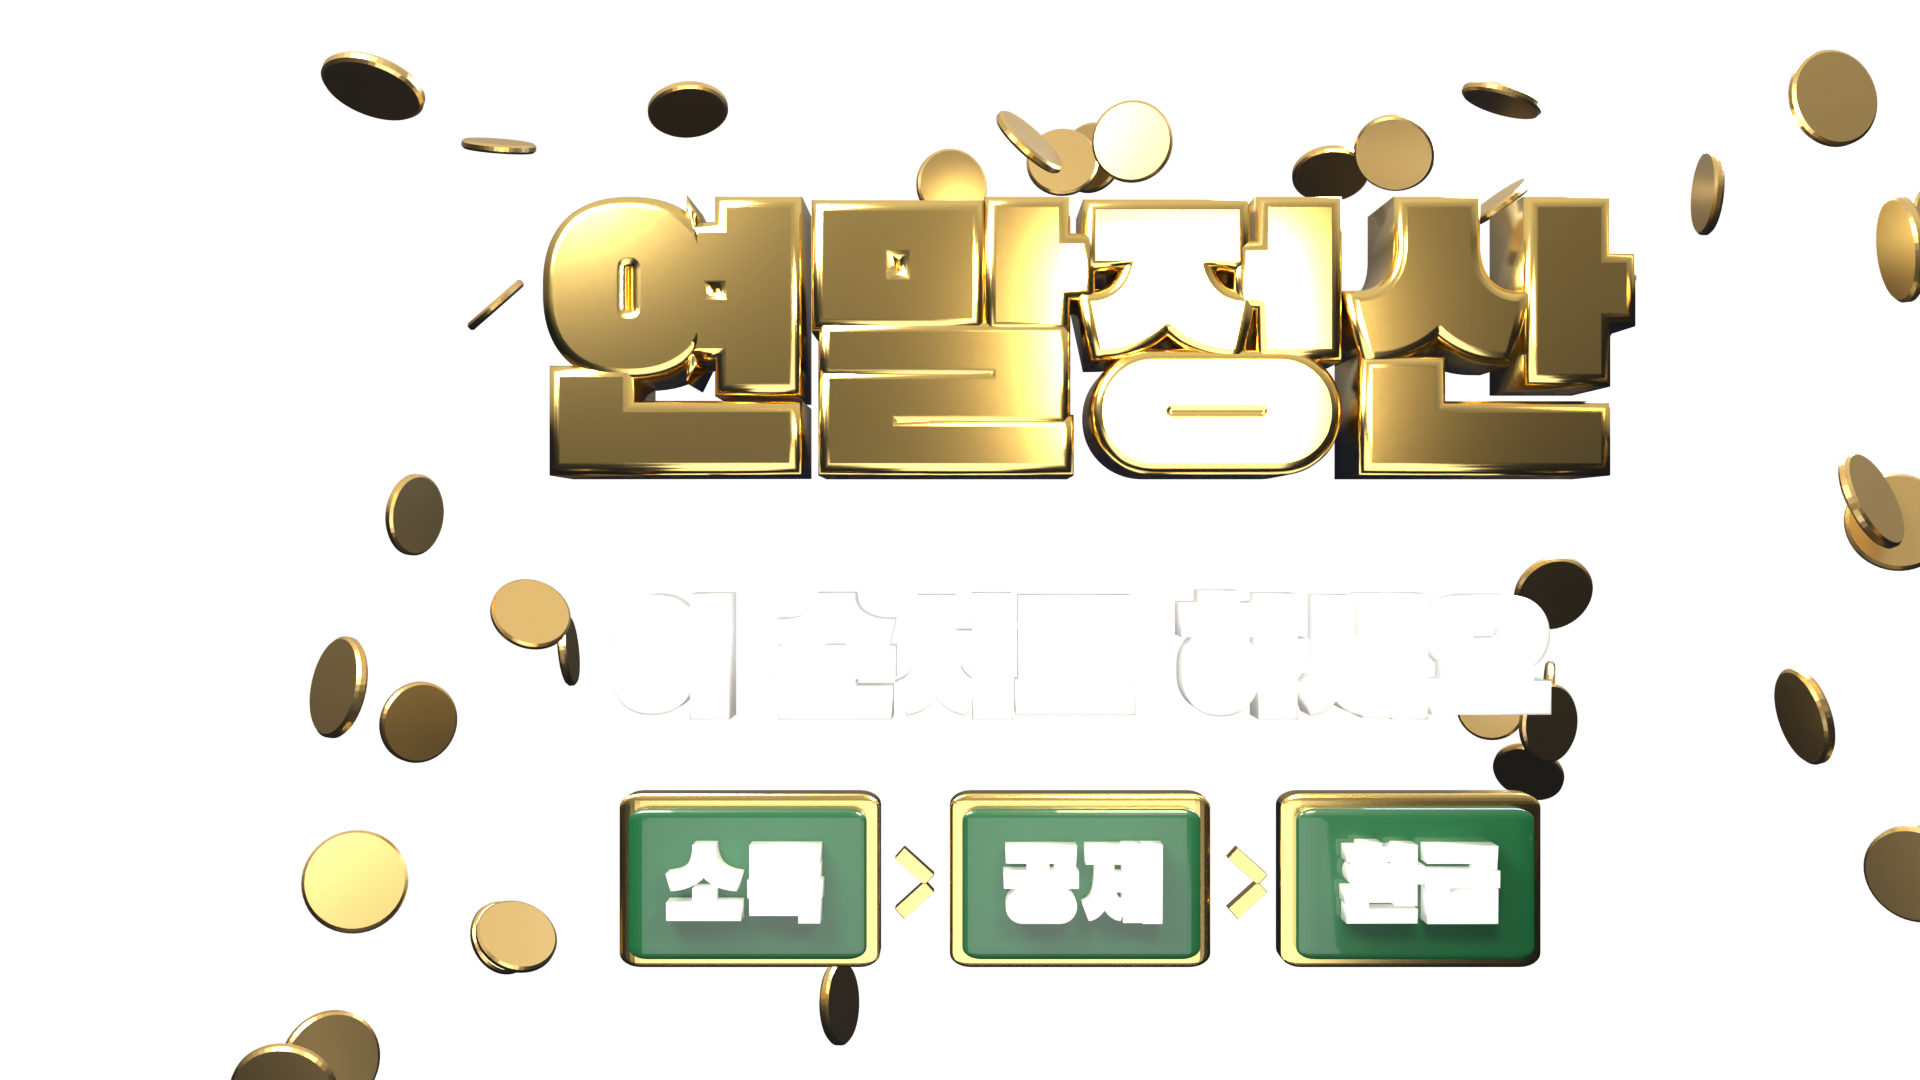
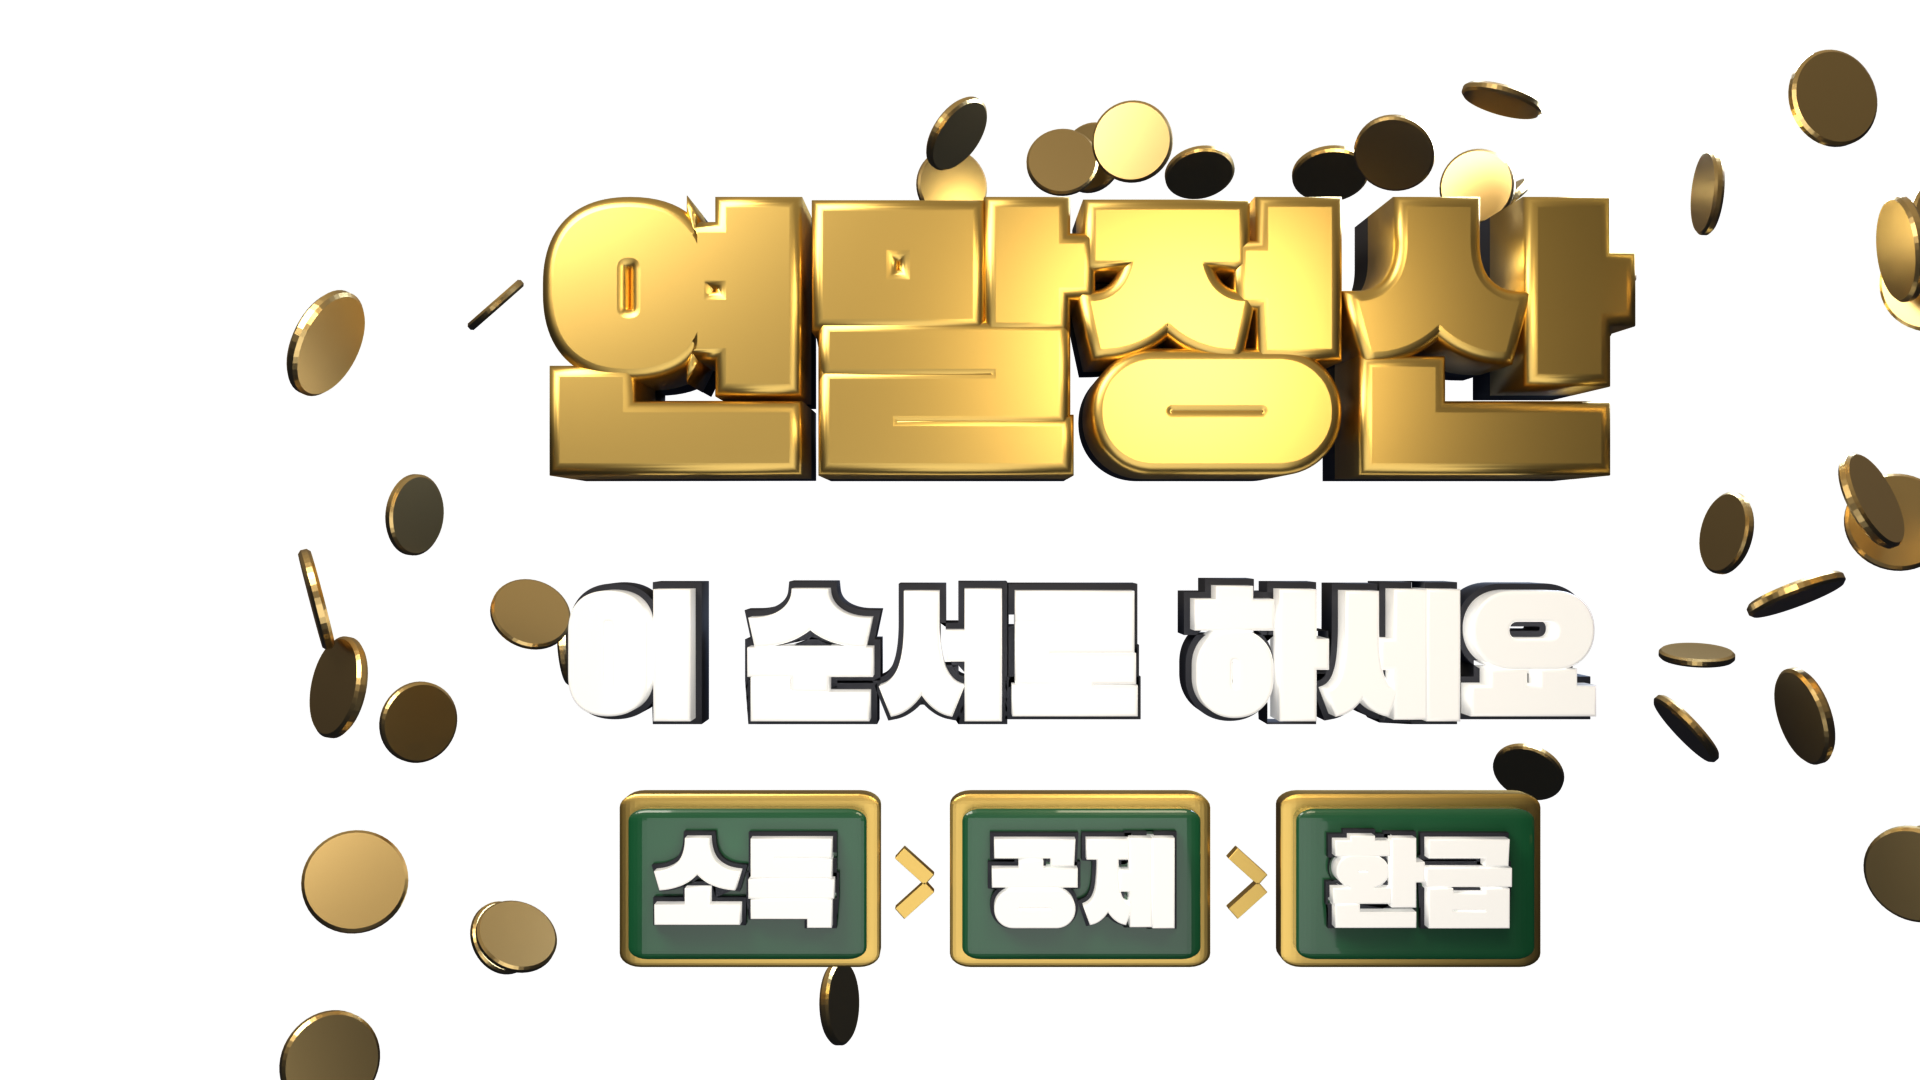
34편 썸네일 G 선명도 개선: 3D 글자 외곽선·금 반사 줄임·샤프닝
Claude-Session: https://claude.ai/code/session_01FimgvnFwUXoVfoVUHJw6eG

diff --git a/video-studio/projects/20261111-yearend-tax/thumb3d_blender.py b/video-studio/projects/20261111-yearend-tax/thumb3d_blender.py
@@ -63,6 +63,20 @@ def text(body, size, x_px, y_px, depth, m, fnt, y=0.0, bevel=0.18):
     return t
 
 
+def outline(t, width, m, dy=0.06):
+    """글자 뒤에 같은 글자를 width 만큼 두껍게(어두운 재질) 깔아 외곽선을 만든다 — 작은 화면에서도 글자가 또렷하게"""
+    o = t.copy()
+    o.data = t.data.copy()
+    o.data.offset = width
+    o.data.bevel_depth = 0
+    o.data.extrude = t.data.extrude
+    o.location.y += t.data.extrude + dy
+    o.data.materials.clear()
+    o.data.materials.append(m)
+    bpy.context.collection.objects.link(o)
+    return o
+
+
 def tile(label, x_px, y_px, fnt, body_m, rim_m, txt_m, w=1.55, h=0.98):
     x, z = px(x_px, y_px)
     # 금테(뒤, 조금 크게) + 초록 몸통 + 흰 글자
@@ -73,7 +87,8 @@ def tile(label, x_px, y_px, fnt, body_m, rim_m, txt_m, w=1.55, h=0.98):
         bev = c.modifiers.new("b", "BEVEL")
         bev.width, bev.segments = 0.16, 6
         c.data.materials.append(m)
-    t = text(label, 0.64, x_px, y_px + 4, 0.10, txt_m, fnt, y=-0.24, bevel=0.12)
+    t = text(label, 0.74, x_px, y_px + 4, 0.10, txt_m, fnt, y=-0.24, bevel=0.10)
+    outline(t, 0.035, OUT, 0.02)
     return t
 
 
@@ -97,18 +112,20 @@ def main():
     sc.render.resolution_x, sc.render.resolution_y = w, h
     fnt = next(bpy.data.fonts.load(os.path.abspath(f)) for f in FONTS if os.path.exists(f))
 
-    gold = mat("gold", (1.0, 0.72, 0.25), 1.0, 0.18)
+    global OUT
+    OUT = mat("outline", (0.012, 0.014, 0.025), 0.0, 0.6)
+    gold = mat("gold", (0.98, 0.66, 0.18), 1.0, 0.34)
     coin = mat("coin", (1.0, 0.70, 0.28), 1.0, 0.28)
     white = mat("white", (0.97, 0.96, 0.93), 0.0, 0.32, coat=0.6)
     wb = white.node_tree.nodes["Principled BSDF"]
     wb.inputs["Emission Color"].default_value = (1, 0.98, 0.94, 1)
-    wb.inputs["Emission Strength"].default_value = 0.35
+    wb.inputs["Emission Strength"].default_value = 0.45
     green = mat("green", (0.012, 0.13, 0.045), 0.0, 0.3, coat=1.0)
 
     # 1) 연말정산 — 큰 금빛 3D (기존 A안의 초록 배너 자리)
-    text("연말정산", 2.15, 1075, 372, 0.42, gold, fnt)
+    outline(text("연말정산", 2.15, 1075, 372, 0.42, gold, fnt), 0.075, OUT)
     # 2) 이 순서로 하세요 — 흰 3D, 금 대신 흰색으로 무게 차이
-    text("이 순서로 하세요", 0.98, 1080, 668, 0.20, white, fnt)
+    outline(text("이 순서로 하세요", 1.08, 1080, 668, 0.20, white, fnt, bevel=0.10), 0.06, OUT)
     # 3) 소득 › 공제 › 환급 — 초록 3D 타일 + 금테 + 금 화살표 (오른쪽 아래 재생시간 자리는 비움)
     for lab, xp in (("소득", 750), ("공제", 1080), ("환급", 1410)):
         tile(lab, xp, 880, fnt, green, gold, white)
@@ -116,7 +133,7 @@ def main():
         chevron(xp, 880, gold)
 
     # 4) 동전: 글자 뒤 공간에 흩날림 + 아래쪽 바닥에 몇 개 (글자·타일을 가리지 않게 y>0.8 또는 가장자리)
-    zones = [(480, 150, 1680, 520), (560, 580, 1600, 760), (600, 760, 1580, 1000), (1650, 930, 1920, 1080)]  # 글자·타일·재생시간 자리
+    zones = [(40, 20, 900, 190), (480, 150, 1680, 520), (520, 570, 1680, 780), (600, 760, 1580, 1000), (1650, 930, 1920, 1080)]  # 글자·타일·재생시간 자리
     placed = 0
     while placed < 44:
         xp, yp = random.uniform(330, 1890), random.uniform(30, 1050)
@@ -140,8 +157,8 @@ def main():
     cam.data.lens = 40
     sc.camera = cam
     # 조명: 키(왼위 따뜻) · 림(오른뒤 차가움) · 아래 채움
-    for loc, en, sz, col in (((-5, -7, 6), 1400, 5, (1, 0.93, 0.82)), ((6, 4, 5), 900, 4, (0.55, 0.7, 1)),
-                             ((0, -9, -4), 350, 8, (1, 1, 1)), ((2, -6, 2), 300, 2, (1, 0.85, 0.6))):
+    for loc, en, sz, col in (((-5, -7, 6), 650, 5, (1, 0.93, 0.82)), ((6, 4, 5), 900, 4, (0.55, 0.7, 1)),
+                             ((0, -9, -4), 220, 8, (1, 1, 1)), ((2, -6, 2), 90, 2, (1, 0.85, 0.6))):
         bpy.ops.object.light_add(type="AREA", location=loc)
         L = bpy.context.object
         L.data.energy, L.data.size, L.data.color = en, sz, col
@@ -159,10 +176,10 @@ def main():
     nt.links.new(coord.outputs["Generated"], sep.inputs[0])
     nt.links.new(sep.outputs["Z"], ramp.inputs["Fac"])
     ramp.color_ramp.elements[0].color = (0.01, 0.015, 0.035, 1)
-    ramp.color_ramp.elements[1].position = 0.75
-    ramp.color_ramp.elements[1].color = (0.9, 0.85, 0.75, 1)
+    ramp.color_ramp.elements[1].position = 0.9
+    ramp.color_ramp.elements[1].color = (0.55, 0.48, 0.38, 1)
     nt.links.new(ramp.outputs["Color"], bg.inputs["Color"])
-    bg.inputs["Strength"].default_value = 0.8
+    bg.inputs["Strength"].default_value = 0.55
     _ = grad
 
     sc.render.engine = "CYCLES"
